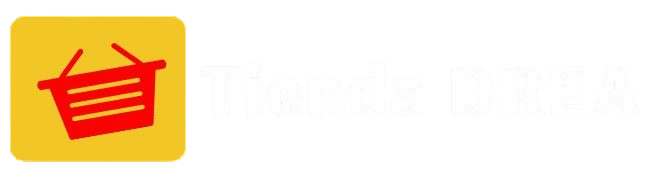
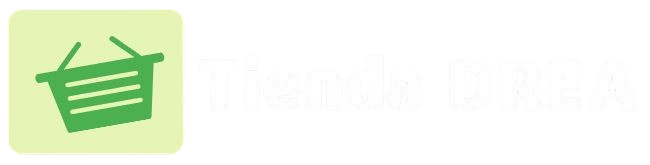
cambios en el css y en el navbar

Changed region(s): [[0.0, 0.0303, 0.3077, 0.9394]]

diff --git a/src/main/resources/templates/base.html b/src/main/resources/templates/base.html
@@ -19,12 +19,9 @@
 </head>
 <body>
 	<!-- Start Navbar  -->
-	<nav class="navbar navbar-expand-lg  bg-primary fixed-top navbar-dark">
+	<nav class="navbar navbar-expand-lg  fixed-top navbar-dark">
 		<div class="container-fluid">
-			<a class="navbar-brand" href="#"><img alt="logo-drea" src="img/tienda.png"></a>
-
-			<a class="navbar-brand" href="#"><i
-				class="fa-solid fa-cart-shopping"></i> TIENDA</a>
+			<a class="navbar-brand" href="#"><img alt="logo-drea" src="/img/tienda.png"></a>
 			<button class="navbar-toggler" type="button"
 				data-bs-toggle="collapse" data-bs-target="#navbarSupportedContent"
 				aria-controls="navbarSupportedContent" aria-expanded="false"

diff --git a/src/main/resources/static/css/style.css b/src/main/resources/static/css/style.css
@@ -1,5 +1,9 @@
 @charset "ISO-8859-1";
 
+nav{
+	background-color: #4caf50;
+}
+
 .card-sh {
 	box-shadow: 0 0 3px 0 rgba(0, 0, 0, 0.3);
 }
